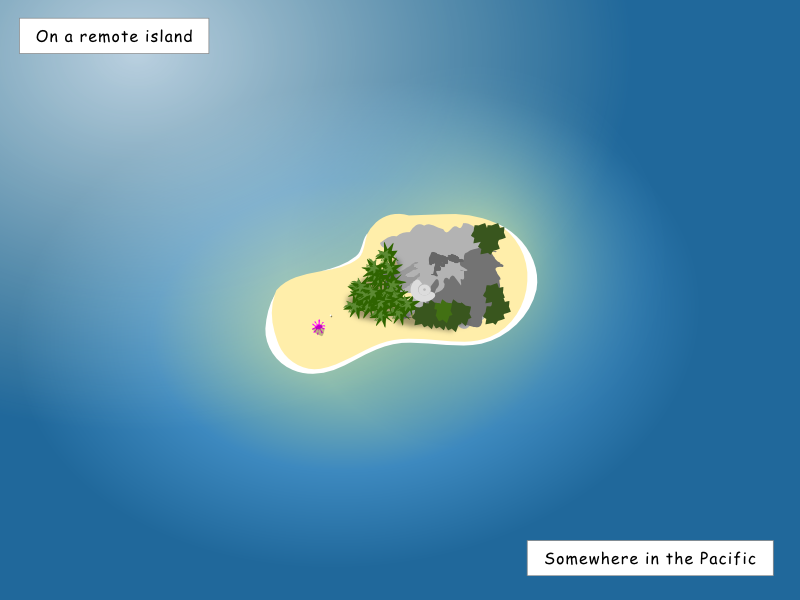
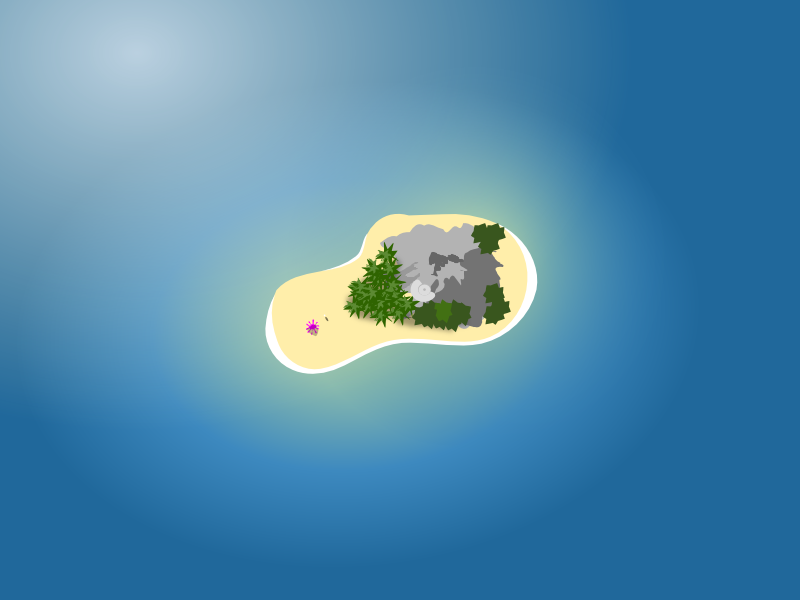
New: goals Tweaks to intro Some bugfixes

Changed region(s): [[0.6562, 0.9, 0.9688, 0.96], [0.0, 0.03, 0.2812, 0.09], [0.375, 0.54, 0.4062, 0.57]]

diff --git a/korovic/world.py b/korovic/world.py
@@ -10,6 +10,8 @@ from pyglet.sprite import Sprite
 from lepton import ParticleSystem
 from lepton.emitter import StaticEmitter
 
+from .vector import v
+from .camera import Rect
 from . import components
 from . import loader
 from .constants import TARGET_FPS, SEA_LEVEL
@@ -30,11 +32,13 @@ class World(EventDispatcher):
         self.squid = components.Susie(self)
 
         self.width = None
+        self.goal = None
 
         self.load('level1')
         self.create_wall()
         self.particles = ParticleSystem()
         self.crashed = False
+        self.won = False
 
     def create_sprite(self, img, x, y):
         if img not in self.images:
@@ -44,18 +48,18 @@ class World(EventDispatcher):
         )
 
     def load(self, level):
+        self.goal = None
+        self.width = None
         self.batch = Batch()
         doc = parse(resource_stream(__name__, 'data/levels/%s.svg' % level))
 
-        self.width = int(doc.getroot().get('width'))
+        self.width = w = int(doc.getroot().get('width'))
         h = int(doc.getroot().get('height'))
         self.title = doc.find('.//{http://www.w3.org/2000/svg}title').text
         try:
             self.money = int(doc.find('.//{http://purl.org/dc/elements/1.1/}identifier').text)
         except AttributeError:
             self.money = 3000
-        else:
-            self.create_wall(self.width + 1000)
 
         self.squid.money = self.money
         for im in doc.findall('.//{http://www.w3.org/2000/svg}image'):
@@ -70,11 +74,21 @@ class World(EventDispatcher):
             iw = int(float(im.get('width')))
             y = h - int(float(im.get('y')) + ih)
 
-            print type, x, y
-           
             if type in ['island-lair', 'city']:
                 self.create_island(x, x + iw)
                 self.create_sprite(path, x, y)
+            if type == 'city':
+                self.create_goal(x, x + iw)
+                # Only if the city straddles the edge of the page
+                # Do we create a wall there
+                if w - x < iw:
+                    self.width = None
+
+        if self.goal:
+            if self.width:
+                self.create_wall(self.width + 500)
+        else:
+            self.width = None
 
     def clear_particles(self):
         for group in self.particles:
@@ -93,12 +107,15 @@ class World(EventDispatcher):
         self.remove_squid()
         self.squid.reset()
         self.crashed = False
+        self.won = False
         self.clear_particles()
         self.space.add(self.squid.body, *self.squid.shapes)
 
-    def create_wall(self, x=-1000, width=1000):
+    def create_wall(self, x=-500, width=500):
         body = pymunk.Body()
-        self.space.add_static(pymunk.Segment(body, (x, 0), (x, 100000), width))
+        seg = pymunk.Segment(body, (x, 0), (x, 100000), width)
+        seg.friction = 0
+        self.space.add_static(seg)
 
     def create_island(self, x1, x2, y=20):
         body = pymunk.Body()
@@ -111,15 +128,27 @@ class World(EventDispatcher):
         self.space.add_static(pymunk.Segment(body, p2, p3, SEA_LEVEL))
         self.space.add_static(pymunk.Segment(body, p3, p4, SEA_LEVEL))
 
+    def create_goal(self, x1, x2, y=20):
+        self.goal = Rect(v(x1, y), v(x2, y + 100))
+
     def create_floor(self):
         self.create_island(0, 676)
 
     def update(self, dt):
         self.particles.update(dt)
-        if not self.crashed:
+        if not self.crashed and not self.won:
             self.check_crash()
             self.squid.update(dt)
-        self.space.step(1.0 / TARGET_FPS)
+
+            g = self.goal
+            if g and self.squid.position in g:
+                self.won = True
+                self.dispatch_event('on_goal')
+
+        # We run the physics with very small time steps
+        # in order to give more sensitive collisions at speed
+        for i in xrange(5):
+            self.space.step(0.2 / TARGET_FPS)
 
     def check_crash(self):
         p = self.squid.position
@@ -145,3 +174,4 @@ class World(EventDispatcher):
 
 
 World.register_event_type('on_crash')
+World.register_event_type('on_goal')

diff --git a/korovic/cutscene.py b/korovic/cutscene.py
@@ -8,6 +8,7 @@ from . import loader
 
 PATH = 'data/'
 
+
 class Cutscene(object):
     def __init__(self, game, next):
         self.game = game
@@ -54,6 +55,17 @@ class Cutscene(object):
             s.z = z
             self.sprites[name] = s
 
+    def bubble(self, pos, text, duration=3.5, delay=False):
+        """Create a speech bubble above a sprite"""
+        @self.step
+        def _bubble():
+            p = v(pos)
+            b = SpeechBubble(p, text, tail=False)
+            b.expiry = self.t + duration
+            self.bubbles.append(b)
+            if delay:
+                self.delay += duration
+
     def say(self, name, text, duration=3.5, delay=True):
         """Create a speech bubble above a sprite"""
         @self.step
@@ -98,6 +110,25 @@ class Cutscene(object):
 
         @self.step
         def _move_sprite():
+            i = iter(interpolator())
+            i.next()
+            self.interpolators.append(i)
+
+    def zoom_sprite(self, name, scale, duration=1):
+        """Move name to pos"""
+        def interpolator():
+            s = self.sprites[name]
+            t = 0
+            start = s.scale
+            end = scale
+            while t < duration:
+                t += (yield)
+                frac = min(1.0, float(t) / duration)
+                s.scale = (1 - frac) * start + frac * end
+            s.scale = end
+
+        @self.step
+        def _zoom_sprite():
             i = iter(interpolator())
             i.next()
             self.interpolators.append(i)
@@ -185,7 +216,11 @@ class Cutscene(object):
 def intro(game, next):
     c = Cutscene(game, next)
     c.background('cutscene/aerial')
+    c.pause(1)
+    c.bubble((62, 471), 'On a remote island...', duration=8)
     c.pause(3)
+    c.bubble((420, 62), '...somewhere in the Pacific...', duration=5)
+    c.pause(5)
     c.background('cutscene/beach')
     c.sprite('korovic', (52, 35), 'cutscene/korovic-standing')
     c.sprite('susie', (55, 6), 'cutscene/susie-standing')
@@ -196,7 +231,7 @@ def intro(game, next):
     c.replace_sprite('korovic', 'cutscene/korovic-standing')
     c.say('korovic', 'I vill call you Susie.')
     c.pause(1.5)
-    c.say('korovic', 'Who ist a cute little atomic squid?')
+    c.say('korovic', 'Who\'s a cute little atomic squid?')
     c.sprite('susie-speak', (233, 95), 'cutscene/blup')
     c.pause(2)
     c.remove_sprite('susie-speak')
@@ -213,11 +248,11 @@ def intro(game, next):
     c.say('korovic', 'Now svim, my fantastisch cephalapod!', delay=False)
     c.pause(1)
     c.move_sprite('susie', (331, 6), duration=5)
-    c.pause(1)
+    c.pause(2.5)
     c.replace_sprite('korovic', 'cutscene/korovic-elated')
     c.say('korovic', 'Lay vaste to ze cities and level ze towns!')
     c.replace_sprite('korovic', 'cutscene/korovic-standing')
-    c.pause(3)
+    c.pause(1)
     c.replace_sprite('susie', 'cutscene/susie-dipping')
     c.pause(1)
     c.sprite('susie-speak', (515, 95), 'cutscene/exclamation')

diff --git a/korovic/primitives.py b/korovic/primitives.py
@@ -163,16 +163,20 @@ class SpeechBubble(object):
     def load(cls):
         cls.tail = loader.image('data/cutscene/bubble-tail.png')
 
-    def __init__(self, pos, text, width=None):
-        if self.tail is None:
+    def __init__(self, pos, text, width=None, tail=True):
+        if self.tail is None and tail:
             self.load()
         self.pos = v(pos)
         self.text = text
         self.width = width
+        self.with_tail = tail
         self.build()
 
     def build(self):
-        off = v(-29, 73)
+        if self.with_tail:
+            off = v(-29, 73)
+        else:
+            off = v(0, 0)
         pad_x, pad_y = self.PADDING
         self.label = Label(
             pos=self.pos + off + v(self.PADDING),
@@ -196,7 +200,8 @@ class SpeechBubble(object):
         self.vertex_list = pyglet.graphics.vertex_list(5,
             ('v2f', self.vertices),
         )
-        self.tail = pyglet.sprite.Sprite(self.tail, x=self.pos.x, y=self.pos.y)
+        if self.with_tail:
+            self.tail = pyglet.sprite.Sprite(self.tail, x=self.pos.x, y=self.pos.y)
         
     def draw(self):
         self.rectangle.draw()
@@ -205,5 +210,6 @@ class SpeechBubble(object):
         self.vertex_list.draw(gl.GL_LINE_STRIP) 
         gl.glLineWidth(1)
         gl.glColor4f(1, 1, 1, 1)
-        self.tail.draw()
+        if self.with_tail:
+            self.tail.draw()
         self.label.draw()

diff --git a/korovic/hud.py b/korovic/hud.py
@@ -38,13 +38,18 @@ class GameHud(object):
 
     def draw(self):
         alt = (self.world.squid.position.y - SEA_LEVEL - 15) * 0.1
-        dist = (self.world.squid.position.x - 150) * 0.1
+        if self.world.goal:
+            dist = abs(self.world.goal.left - self.world.squid.position.x) * 0.1
+            self.distlabel.document.text = 'Target: %dm' % dist
+        else:
+            dist = (self.world.squid.position.x - 150) * 0.1
+            self.distlabel.document.text = 'Distance: %dm' % dist
 
         if alt < 0:
             self.altlabel.document.text = 'Depth: %dm' % (-alt)
         else:
             self.altlabel.document.text = 'Altitude: %dm' % alt
-        self.distlabel.document.text = 'Distance: %dm' % dist
+
         self.fuellabel.document.text = 'Fuel: %0.1fkg' % self.world.squid.fuel
         self.infobox.draw()
         self.altlabel.draw()

diff --git a/korovic/scene.py b/korovic/scene.py
@@ -35,6 +35,10 @@ class Scene(object):
         self.hud = GameHud(self.world)
 
         self.world.set_handler('on_crash', self.on_crash)
+        self.world.set_handler('on_goal', self.on_goal)
+
+    def on_goal(self):
+        print "Success!"
 
     def on_crash(self, distance):
         pyglet.clock.schedule_once(self.on_death, 3)

diff --git a/korovic/camera.py b/korovic/camera.py
@@ -91,7 +91,7 @@ class Camera(object):
         self.pos = v(x, y)
 
     def track(self, actor, max_x=None):
-        self.set_pos(actor.body.position, max_x=None)
+        self.set_pos(actor.body.position, max_x=max_x)
 
     def viewport(self):
         ss = v(*SCREEN_SIZE) * 0.5

diff --git a/korovic/components/engines.py b/korovic/components/engines.py
@@ -198,7 +198,7 @@ class Rocket(Engine):
 class Propeller(OnAnimation, Engine):
     MASS = 3
     slot_mask = Slot.TOP | Slot.BOTTOM | Slot.NOSE
-    FORCE = v(40000, 0)
+    FORCE = v(45000, 0)
     angles = {
         Slot.TOP: math.pi * 0.5,
         Slot.BOTTOM: math.pi * 1.5,
